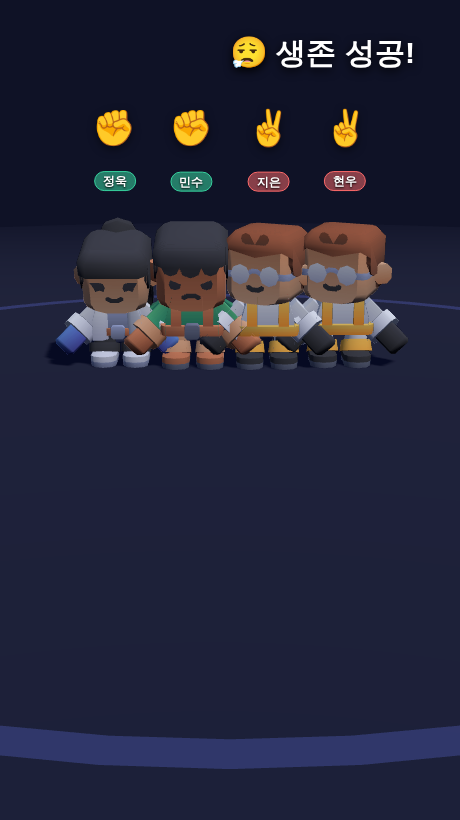
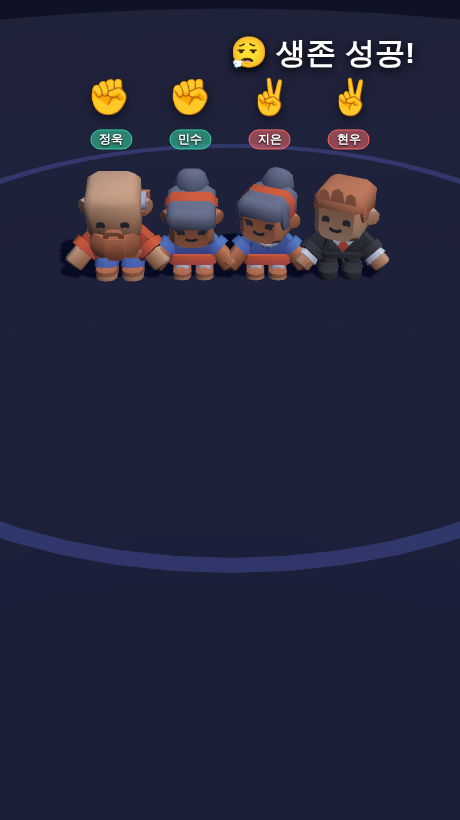
3D 배치 그리드화 + 인원수 자동 카메라 + 제목 포함 링크 복사
- 캐릭터 배치를 한 줄 5명·최대 10줄(=50명) 그리드로 변경
- 인원수/화면비에 맞춰 전체 캐릭터가 상단에 들어오도록 카메라 위치·
  시선을 자동 계산하고 부드럽게 보간(리사이즈 시 재계산)
- 그림자 프러스텀·fog 범위를 넓혀 먼 줄까지 정상 표시
- 링크 복사 시 '제목 + 링크'를 함께 복사
- 입장 인원 상한 50명(서버 기존 설정과 일치)
- README 스크린샷을 새 레이아웃으로 갱신

Changed region(s): [[0.0, 0.0915, 1.0, 0.4573], [0.0, 0.8841, 1.0, 0.9451], [0.0, 0.6402, 1.0, 0.7012]]

diff --git a/public/scene.js b/public/scene.js
@@ -22,6 +22,43 @@ const loader = new GLTFLoader();
 const modelCache = new Map();  // idx -> Promise<{scene, animations, scale, yOffset}>
 const chars = new Map();       // playerId -> char object
 let banners = [];
+let currentN = 0;
+const camPos = new THREE.Vector3(0, 2.6, 9);   // 카메라 목표 위치
+const camLook = new THREE.Vector3(0, -0.4, -1.2); // 시선 목표
+const curLook = new THREE.Vector3(0, -0.4, -1.2); // 부드럽게 보간되는 현재 시선
+
+// ---- 그리드 배치: 한 줄 최대 5명, 최대 10줄(=50명) ----
+const PER_ROW = 5, COL_X = 1.35, ROW_Z = 1.5, FRONT_Z = -0.4;
+function layout(n, gather) {
+  const cx = COL_X * (gather ? 0.78 : 1), rz = ROW_Z * (gather ? 0.82 : 1);
+  const out = [];
+  for (let i = 0; i < n; i++) {
+    const r = Math.floor(i / PER_ROW);
+    const rowCount = Math.min(PER_ROW, n - r * PER_ROW);
+    const c = i % PER_ROW;
+    out.push(new THREE.Vector3((c - (rowCount - 1) / 2) * cx, 0, FRONT_Z - r * rz));
+  }
+  return out;
+}
+
+// 인원수에 맞춰 전체가 화면에 들어오도록 카메라 목표를 계산
+function fitCamera(n) {
+  if (!n || !camera) { camPos.set(0, 2.6, 9); camLook.set(0, -0.4, -1.2); return; }
+  const pos = layout(n, false);
+  let minX = 1e9, maxX = -1e9, minZ = 1e9, maxZ = -1e9;
+  for (const p of pos) { minX = Math.min(minX, p.x); maxX = Math.max(maxX, p.x); minZ = Math.min(minZ, p.z); maxZ = Math.max(maxZ, p.z); }
+  const halfW = (maxX - minX) / 2 + 0.8;          // 캐릭터 폭 여유
+  const depth = (maxZ - minZ);
+  const cz = (minZ + maxZ) / 2;
+  const vFov = camera.fov * Math.PI / 180;
+  const aspect = camera.aspect || 0.6;
+  const hFov = 2 * Math.atan(Math.tan(vFov / 2) * aspect);
+  const vertExtent = TARGET_H + 1.6 + depth * 0.5; // 키 + 라벨 + 깊이로 인한 세로 폭
+  const dist = Math.max(halfW / Math.tan(hFov / 2), (vertExtent / 2) / Math.tan(vFov / 2)) * 1.05 + depth * 0.5 + 1.4;
+  // 캐릭터들이 화면 상단(HUD 위)에 오도록: 카메라를 높이고 시선을 규모에 비례해 아래로
+  camPos.set(0, dist * 0.40 + 1.0, cz + dist * 0.9);
+  camLook.set(0, -dist * 0.16 - 0.2, cz);
+}
 
 function hashIdx(id) {
   let h = 0; for (let i = 0; i < id.length; i++) h = (h * 31 + id.charCodeAt(i)) >>> 0;
@@ -60,21 +97,21 @@ export function init(container) {
 
     scene = new THREE.Scene();
     scene.background = new THREE.Color(0x0f1226);
-    scene.fog = new THREE.Fog(0x0f1226, 13, 30);
+    scene.fog = new THREE.Fog(0x0f1226, 30, 90); // 카메라 거리가 가변이라 멀리 밀어 둠
 
-    camera = new THREE.PerspectiveCamera(46, 1, 0.1, 100);
-    camera.position.set(0, 2.6, 9.0);
-    camera.lookAt(0, -0.5, -1.2);
+    camera = new THREE.PerspectiveCamera(46, 1, 0.1, 200);
+    camera.position.copy(camPos);
+    camera.lookAt(curLook);
 
     const hemi = new THREE.HemisphereLight(0xbfd4ff, 0x202440, 1.1);
     scene.add(hemi);
     const dir = new THREE.DirectionalLight(0xffffff, 1.6);
     dir.position.set(4, 9, 6);
     dir.castShadow = true;
-    dir.shadow.mapSize.set(1024, 1024);
-    dir.shadow.camera.near = 1; dir.shadow.camera.far = 30;
-    dir.shadow.camera.left = -10; dir.shadow.camera.right = 10;
-    dir.shadow.camera.top = 10; dir.shadow.camera.bottom = -10;
+    dir.shadow.mapSize.set(2048, 2048);
+    dir.shadow.camera.near = 1; dir.shadow.camera.far = 60;
+    dir.shadow.camera.left = -18; dir.shadow.camera.right = 18;
+    dir.shadow.camera.top = 18; dir.shadow.camera.bottom = -18;
     scene.add(dir);
 
     ground = new THREE.Mesh(
@@ -112,12 +149,17 @@ function resize() {
   renderer.setSize(w, h);
   labelRenderer.setSize(w, h);
   camera.aspect = w / h; camera.updateProjectionMatrix();
+  fitCamera(currentN); // 화면 비율이 바뀌면 다시 맞춤
 }
 
 function loop() {
   if (!running || !ready) return;
   requestAnimationFrame(loop);
   const dt = Math.min(clock.getDelta(), 0.05);
+  // 카메라 부드럽게 목표로 이동
+  camera.position.lerp(camPos, Math.min(1, dt * 2.5));
+  curLook.lerp(camLook, Math.min(1, dt * 2.5));
+  camera.lookAt(curLook);
   for (const c of chars.values()) {
     if (c.mixer) c.mixer.update(dt);
     // 위치 보간 + 걷기/대기 자동 전환 (연출 중엔 명시 제어)
@@ -151,17 +193,7 @@ function play(c, name, opts) {
   c.current = action;
 }
 
-// 카메라를 향한 가벼운 호(arc) 배치 좌표. 인원이 늘면 간격을 좁혀 화면 밖으로 안 나가게.
-function slot(i, n, gather) {
-  const span = gather ? 2.4 : 3.2;           // 양끝 |x| 가 대략 span/2 를 넘지 않도록
-  const cap = gather ? 0.95 : 1.4;
-  const spacing = Math.min(cap, span / Math.max(1, n - 1));
-  const x = (i - (n - 1) / 2) * spacing;
-  const z = -1.2 - Math.abs(x) * 0.1;        // 양끝을 살짝 뒤로 (가림 방지)
-  return new THREE.Vector3(x, 0, z);
-}
-
-async function spawn(player, i, n) {
+async function spawn(player, pos) {
   const idx = hashIdx(player.id);
   const m = await loadModel(idx);
   if (chars.has(player.id)) return; // 동시성 가드
@@ -171,7 +203,7 @@ async function spawn(player, i, n) {
   model.position.y = m.yOffset;
   group.add(model);
   group.rotation.y = FACE;
-  group.position.copy(slot(i, n, false));
+  group.position.copy(pos);
 
   const mixer = new THREE.AnimationMixer(model);
   const actions = {};
@@ -184,7 +216,7 @@ async function spawn(player, i, n) {
   group.add(rps.obj);
 
   const c = { group, model, mixer, actions, current: null, nick, rps,
-              target: slot(i, n, false), lockAnim: false };
+              target: pos.clone(), lockAnim: false };
   chars.set(player.id, c);
   scene.add(group);
   play(c, 'idle');
@@ -195,12 +227,15 @@ export function sync(state, meId) {
   try {
     const players = state.players || [];
     const n = players.length;
+    currentN = n;
+    const pos = layout(n, false);
+    fitCamera(n);
     const seen = new Set();
     players.forEach((p, i) => {
       seen.add(p.id);
       const c = chars.get(p.id);
-      if (!c) { spawn(p, i, n); return; }
-      c.target = slot(i, n, false);
+      if (!c) { spawn(p, pos[i]); return; }
+      c.target = pos[i];
       c.nick.el.textContent = p.name;
       c.nick.el.classList.toggle('me', p.id === meId);
       c.nick.el.classList.toggle('out', !p.alive);
@@ -256,8 +291,9 @@ export function reveal(payload, onDone) {
     const list = names.map((nm) => byName.get(nm)).filter(Boolean);
     const n = list.length;
 
-    // 1) 가운데로 모이기 + 카메라 정면
-    list.forEach((c, i) => { c.lockAnim = false; c.target = slot(i, n, true); });
+    // 1) 가운데로 모이기 (이번 라운드 참가자들을 촘촘한 그리드로)
+    const gpos = layout(n, true);
+    list.forEach((c, i) => { c.lockAnim = false; c.target = gpos[i]; });
     const drum = banner('r3d-drum', '🥁 두구두구두구…');
 
     // 2) 모인 뒤 들썩(점프 반복)

diff --git a/public/room.html b/public/room.html
@@ -220,10 +220,11 @@
       const copyBtn = document.getElementById('copyBtn');
       if (copyBtn) copyBtn.onclick = () => {
         const inp = document.getElementById('shareLink');
-        inp.select();
-        navigator.clipboard?.writeText(inp.value).then(() => toast('링크 복사됨!')).catch(() => {
-          document.execCommand('copy'); toast('링크 복사됨!');
-        });
+        const text = `${s.title}\n${inp.value}`; // 제목 + 링크 함께 복사
+        const fallback = () => { inp.select(); document.execCommand('copy'); };
+        if (navigator.clipboard) {
+          navigator.clipboard.writeText(text).then(() => toast('제목과 링크 복사됨!')).catch(() => { fallback(); toast('복사됨!'); });
+        } else { fallback(); toast('복사됨!'); }
       };
 
       const joinBtn = document.getElementById('joinBtn');

diff --git a/public/index.html b/public/index.html
@@ -39,7 +39,7 @@
       <div class="err" id="err"></div>
     </div>
 
-    <p class="sub center">데이터베이스 없이 동작하는 초간단 서비스 · 방은 12시간 후 자동 삭제됩니다.<br><small style="opacity:.6">build v11 · 3D 캐릭터 무대</small></p>
+    <p class="sub center">데이터베이스 없이 동작하는 초간단 서비스 · 방은 12시간 후 자동 삭제됩니다.<br><small style="opacity:.6">build v12 · 그리드 배치·자동 카메라</small></p>
   </div>
 
   <script>